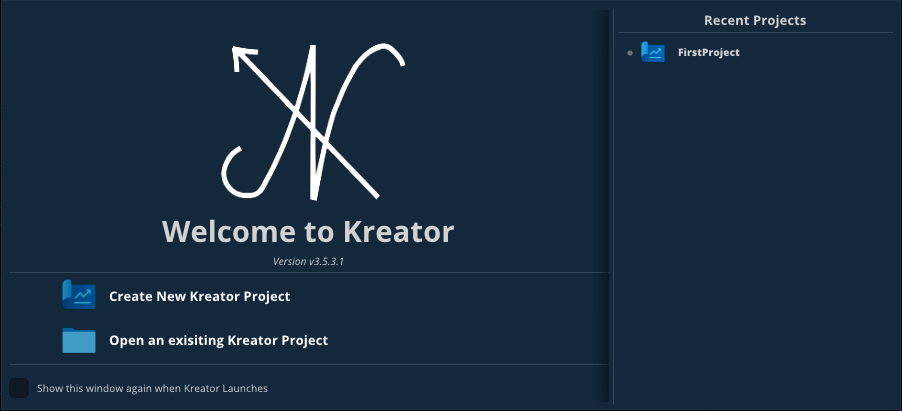
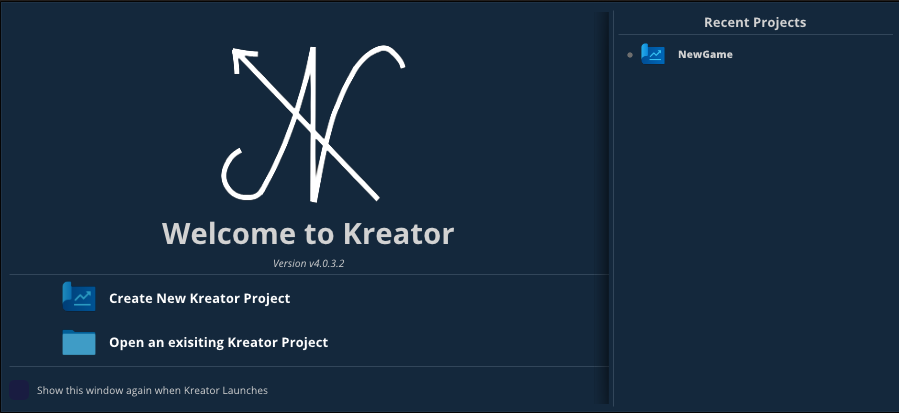
Release 4.0.3.2
_ECS

diff --git a/Kreator/Kreator/Panels/SceneHierarchyPanel.cpp b/Kreator/Kreator/Panels/SceneHierarchyPanel.cpp
@@ -1091,7 +1091,7 @@ namespace Kreator
           UI::PropertyGridHeaderEnd();
         } // property grid header
       }
-    }, s_gearIcon, searchedString);
+    }, s_gearIcon, searchedString, true);
   }
   
   bool SceneHierarchyPanel::SearchEntityRecursive(Entity entity, const std::string_view &searchFilter, const uint32_t maxSearchDepth, uint32_t currentDepth)

diff --git a/Kreator/Kreator/Application/Kreator.cpp b/Kreator/Kreator/Application/Kreator.cpp
@@ -14,7 +14,7 @@
 namespace Kreator
 {
   /// IKan Engine Version
-  static const std::string KreatorVersion = "3.1";
+  static const std::string KreatorVersion = "3.2";
   
   KreatorApp::KreatorApp(const ApplicationSpecification& appSpec, const KreatorDirectories& kreatorDirectories)
   : Application(appSpec), m_kreatorDirectories(kreatorDirectories)

diff --git a/IKan/Implementation/Core/Application.cpp b/IKan/Implementation/Core/Application.cpp
@@ -10,7 +10,7 @@
 #include "Renderer/RendererStats.hpp"
 
 /// IKan Engine Version
-static const std::string IKanVersion = "3.5";
+static const std::string IKanVersion = "4.0";
 
 namespace IKan
 {

diff --git a/README.md b/README.md
@@ -64,6 +64,10 @@ v {IKanVersion}.{IKanSubVersion}.{KreatorVersion}.{KreatorSubVersion}
 - v3.1.1.1 : Images and framebuffer
 - v3.2.2.1 : Scene Renderer and Viewport
 - v3.3.2.1 : Projects and assets with out UI
+- v3.4.2.1 : Core Editors
+- v3.5.3.0 : Panels
+- v3.5.3.1 : Title Bar
+- v4.0.3.2 : ECS / Panel
 
 ## Road Map
 - Scene [3D]
